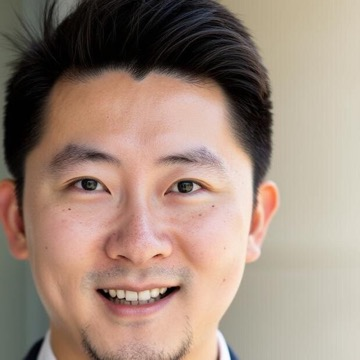
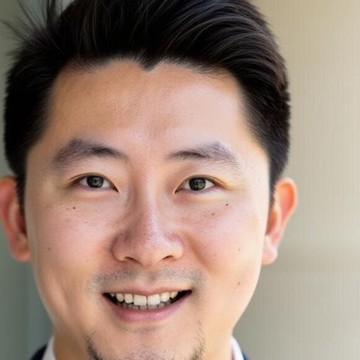
Faces centered via measured crops; fleet demand line beside ChipMill card
All headshots recropped against a crosshair contact sheet (eye line at
43%, horizontal center), verified in real Chrome at the deck's actual
fractional zoom. Global demand potential moves from below the fleet
grid into the empty columns beside the ChipMill card.

diff --git a/slides.html b/slides.html
@@ -937,9 +937,10 @@ nav.dots button.active::before{content:"";position:absolute;left:-.55rem;top:50%
       <div class="gcard  rv"><h3>SUPERMILL TWO</h3><div class="gsub">In development</div><div class="gicons" style="--fh:3.0rem" aria-hidden="true"><i class="fx"></i></div><div class="grows"><div class="gr"><span>Sq ft / yr</span><b>36M</b></div><div class="gr"><span>Capex</span><b>$300M</b></div><div class="gr"><span>Revenue</span><b>$360M cap. &middot; $320M proj.</b></div><div class="gr"><span>EBITDA</span><b>65%</b></div><div class="gr full"><span>Products</span><b>SUPERWOOD Boards, SUPER Veneer</b></div></div><p class="gnote">Same batch process as SUPERMILL ONE &mdash; at increased scale.</p></div>
       <div class="gcard  rv"><h3>NATIONAL FLEET OF SUPERMILLS</h3><div class="gsub">Using SUPERMILL TWO as a template</div><div class="gicons varied dense2" aria-hidden="true"><i class="fx" style="--fh:3.20rem"></i><i class="fx" style="--fh:2.60rem"></i><i class="fx" style="--fh:3.40rem"></i><i class="fx" style="--fh:2.40rem"></i><i class="fx" style="--fh:2.90rem"></i><i class="fx" style="--fh:2.50rem"></i><i class="fx" style="--fh:3.30rem"></i><i class="fx" style="--fh:2.80rem"></i><i class="fx" style="--fh:2.30rem"></i><i class="fx" style="--fh:3.00rem"></i></div><div class="grows"><div class="gr"><span>Sq ft / yr</span><b>10B+</b></div><div class="gr"><span>ROE per SUPERMILL</span><b>175&ndash;200%</b></div><div class="gr"><span>Plant template</span><b>SUPERMILL TWO</b></div><div class="gr full"><span>Feedstock</span><b>Sufficient for a SUPERMILL in 48 states</b></div></div><p class="gnote">Modular construction and manufacturing make additional SUPERMILLS easy to site and fast to build.</p></div>
       <div class="gcard sm rv"><h3>INTERNATIONAL</h3><div class="gsub">~10x the national fleet</div><div class="gicons orange varied dense" aria-hidden="true"><i class="fx" style="--fh:4.09rem"></i><i class="fx" style="--fh:4.12rem"></i><i class="fx" style="--fh:4.04rem"></i><i class="fx" style="--fh:2.83rem"></i><i class="fx" style="--fh:3.59rem"></i><i class="fx" style="--fh:3.34rem"></i><i class="fx" style="--fh:3.50rem"></i><i class="fx" style="--fh:2.90rem"></i><i class="fx" style="--fh:2.99rem"></i><i class="fx" style="--fh:3.37rem"></i><i class="fx" style="--fh:3.03rem"></i><i class="fx" style="--fh:3.38rem"></i><i class="fx" style="--fh:2.74rem"></i><i class="fx" style="--fh:2.83rem"></i><i class="fx" style="--fh:3.77rem"></i><i class="fx" style="--fh:3.33rem"></i><i class="fx" style="--fh:3.47rem"></i><i class="fx" style="--fh:3.80rem"></i><i class="fx" style="--fh:3.24rem"></i><i class="fx" style="--fh:2.79rem"></i><i class="fx" style="--fh:3.87rem"></i><i class="fx" style="--fh:3.58rem"></i></div><div class="grows"><div class="gr"><span>Products</span><b>SUPERWOOD Boards, SUPER Veneer, SUPER OSB</b></div></div><p class="gnote">Typically a JV with a local partner: InventWood earns a technology &amp; setup fee, an operating fee, and a brand / marketing fee.</p></div>
+      <div class="rv" style="grid-column:1/3;align-self:center;font-family:'Fraunces',serif;font-size:clamp(1.15rem,2vw,1.7rem);line-height:1.35;color:var(--cream);padding-right:.5rem">Global demand potential: <em style="color:var(--gold)">&gt;7,000 SUPERMILL TWO equivalents</em></div>
       <div class="gcard sm wide rv"><h3>CHIPMILL FLEET</h3><div class="gsub">National and international</div><div class="gicons green varied dense" aria-hidden="true"><i class="fx" style="--fh:3.81rem"></i><i class="fx" style="--fh:4.01rem"></i><i class="fx" style="--fh:4.66rem"></i><i class="fx" style="--fh:3.84rem"></i><i class="fx" style="--fh:3.91rem"></i><i class="fx" style="--fh:4.06rem"></i><i class="fx" style="--fh:3.33rem"></i><i class="fx" style="--fh:3.92rem"></i><i class="fx" style="--fh:4.13rem"></i><i class="fx" style="--fh:4.43rem"></i><i class="fx" style="--fh:3.17rem"></i><i class="fx" style="--fh:3.55rem"></i><i class="fx" style="--fh:3.16rem"></i><i class="fx" style="--fh:4.46rem"></i><i class="fx" style="--fh:4.25rem"></i><i class="fx" style="--fh:3.08rem"></i><i class="fx" style="--fh:4.77rem"></i><i class="fx" style="--fh:4.74rem"></i><i class="fx" style="--fh:4.18rem"></i><i class="fx" style="--fh:4.11rem"></i></div><div class="grows"><div class="gr"><span>Sq ft / yr</span><b>180M per plant</b></div><div class="gr"><span>Product</span><b>SUPER OSB</b></div></div><p class="gnote">Further scale &amp; profitability. Continuous manufacturing on low-cost wood chips &amp; wood waste. International plants as JVs with local partners &mdash; technology &amp; setup, operating, and brand / marketing fees.</p></div>
     </div>
-    <p class="overlap rv" style="font-style:normal;font-family:'Fraunces',serif;font-size:clamp(1.1rem,1.9vw,1.6rem);color:var(--cream);margin-top:1.2rem">Global demand potential: <em style="color:var(--gold)">&gt;7,000 SUPERMILL TWO equivalents</em></p>
+
   </div>
 </section>
 
